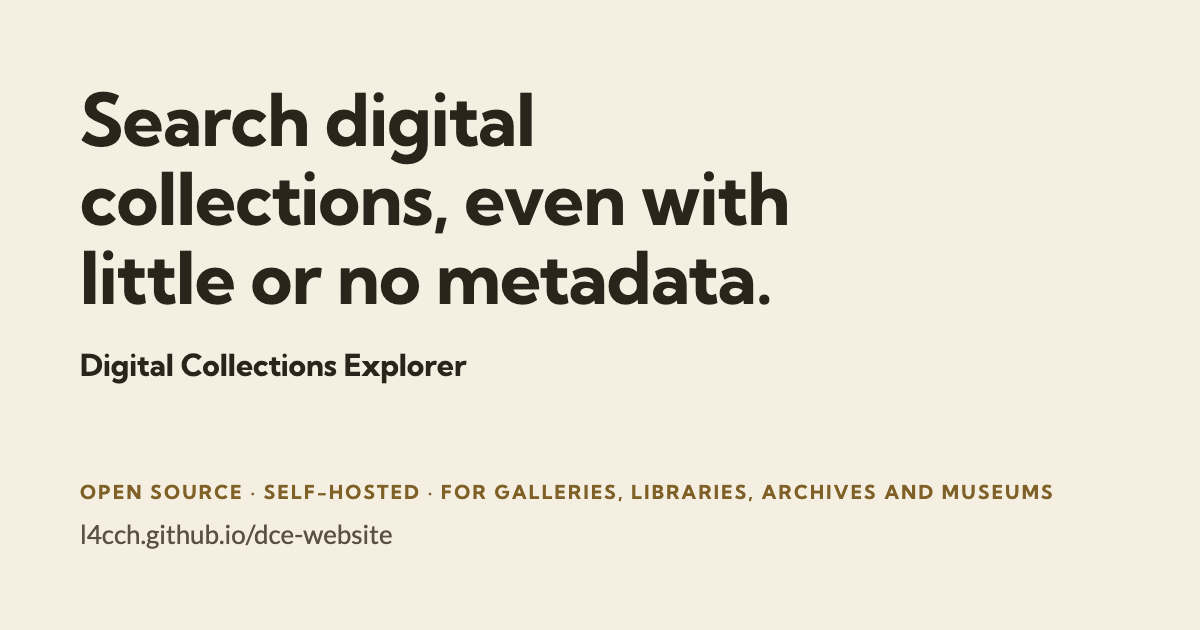
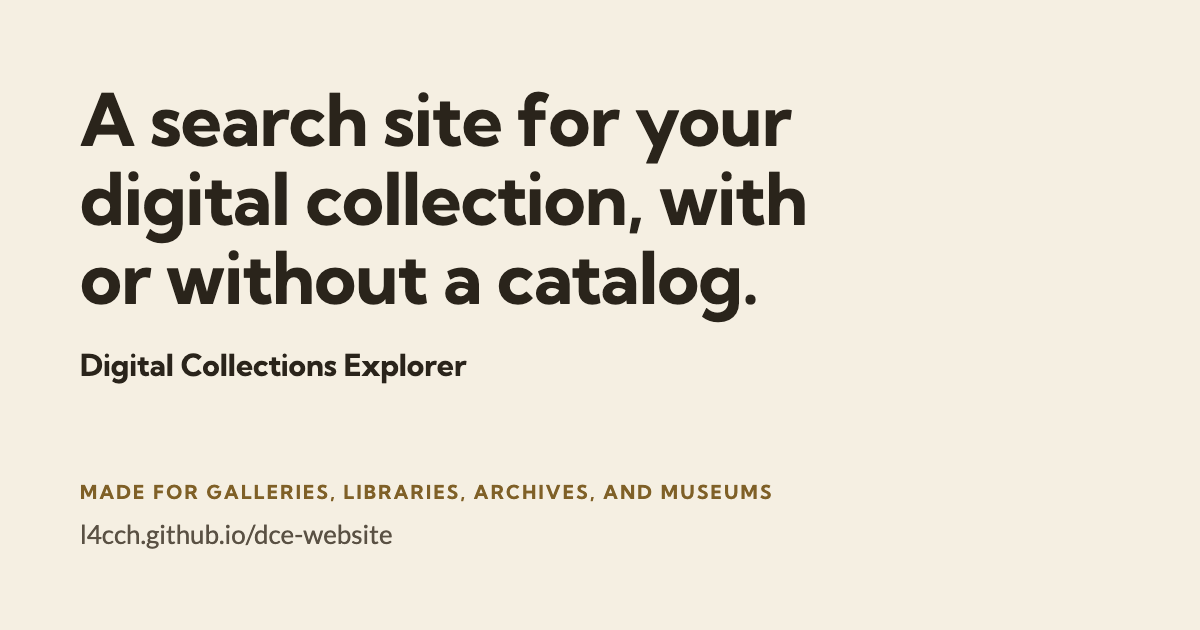
Redraw the sharing image with the current headline, and say what the wishlist shows without a token

Changed region(s): [[0.0617, 0.1206, 0.6783, 0.5127], [0.0617, 0.754, 0.8942, 0.8143]]

diff --git a/scripts/og.html b/scripts/og.html
@@ -50,11 +50,11 @@
   </head>
   <body>
     <div>
-      <h1>Search digital collections, even with little or no metadata.</h1>
+      <h1>A search site for your digital collection, with or without a catalog.</h1>
       <p class="name">Digital Collections Explorer</p>
     </div>
     <div>
-      <p class="eyebrow">Open source · Self-hosted · For galleries, libraries, archives and museums</p>
+      <p class="eyebrow">Made for galleries, libraries, archives, and museums</p>
       <p class="url">l4cch.github.io/dce-website</p>
     </div>
   </body>

diff --git a/README.md b/README.md
@@ -13,7 +13,7 @@ npm run build      # writes dist/
 ```
 
 Set `GITHUB_TOKEN` to a read-only token when building to fill the wishlist; without it the
-wishlist shows an invitation to post the first idea. Everything else works without a token.
+wishlist lists no ideas. Everything else works without a token.
 
 ## Social preview
 
